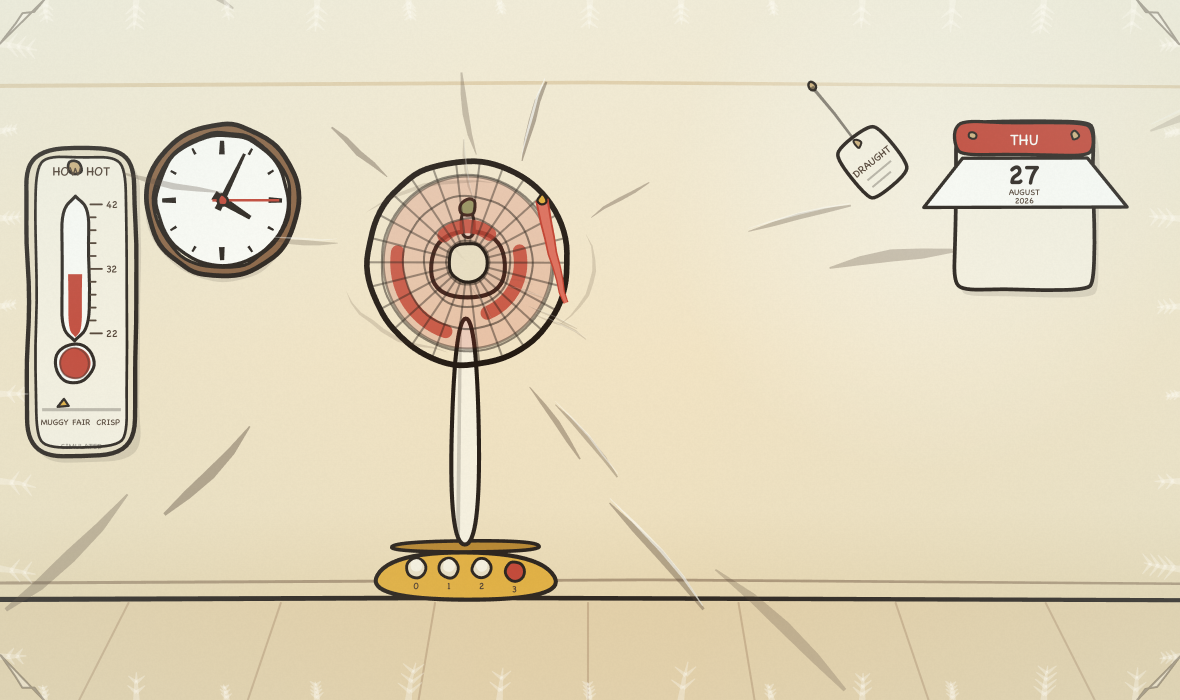
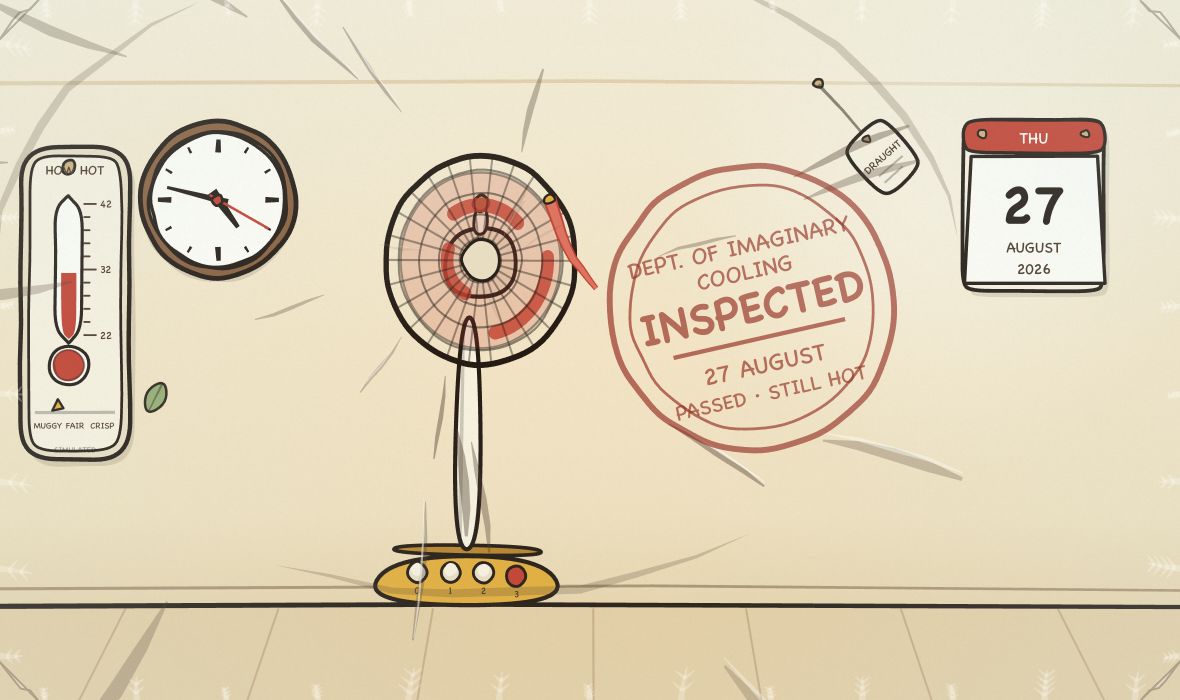
docs: describe the room, the file layout and how to run it
Rewrites the README around the five-file structure, the per-appliance
consequences, the information wall and both verification suites, and states
plainly that app.js is an ES module so the page must be served rather than
opened as a file:// URL. Fresh wide and portrait captures.

diff --git a/styles.css b/styles.css
@@ -292,7 +292,9 @@ kbd{display:inline-block; min-width:22px; text-align:center; background:var(--cr
 }
 @media (max-width:820px){
   .tabs{grid-template-columns:repeat(2,1fr)}
-  .marquee{padding-inline:var(--sp-5); min-height:118px}
+  .marquee{padding-inline:var(--sp-5); min-height:118px;
+           border-radius:30px 26px 32px 24px}
+  .studio{letter-spacing:.14em}
   .seal{position:static; translate:0; justify-self:center; width:74px; height:74px;
         margin-top:var(--sp-2); transform:rotate(-5deg)}
 }

diff --git a/README.md b/README.md
@@ -1,22 +1,29 @@
 # CyberFan
 
-**▶ [Open it](https://renrenmimi.github.io/cyberfann/)** — runs in your browser, nothing to install.
+**▶ [Open it](https://renrenmimi.github.io/CyberFan/)** — a static site, nothing to install.
 
 It has been extremely hot. This is a small department of imaginary cooling: four
 appliances drawn in the flat, inked, gouache-painted style of a 1940s cartoon, with
 working gears, and every sound built at runtime out of oscillators and filtered
-noise. There are no audio files and no images in this repository — the drawing is
+noise. There are no audio files and no images in the application — the drawing is
 code and so is the sound.
 
-![The room at 1440px: thermometer, clock, calendar and a fan running at speed three](docs/room-wide.png)
+![The room at 1440px: marquee, selector, thermometer, clock, calendar and a fan at speed three](docs/room-wide.png)
 
-*The wide scene. Clock and calendar read the visitor's own local time.*
+## Running it
+
+`app.js` is an ES module, so the page must be **served**, not opened as a `file://`
+URL. Any static server will do:
+
+```bash
+python3 -m http.server 8000
+```
 
 ## Controls
 
 | Action | |
 |---|---|
-| Pick an appliance | `1`–`4`, click a tab, or arrow through the strip |
+| Pick an appliance | `1`–`4`, click a card, or arrow through the strip |
 | Change speed | `↑` `↓`, or press a key on the plate |
 | On / off | `Space` |
 | Let the head swing | `P`, or pull the pin — fan only |
@@ -25,135 +32,136 @@ code and so is the sound.
 | Fan by hand | click or drag the stage — palm-leaf fan |
 | Volume | drag, scroll or arrow the knob |
 
-Nothing makes a sound until you click, because that is the browser's rule. Headphones
-help; a lot of this sits below 100 Hz.
+Nothing makes a sound until you press the button on the curtain, because that is
+the browser's rule. Headphones help; a lot of this sits below 100 Hz. Sound is
+never required to understand anything.
 
 ## The wind blows at you, not past you
 
-The first version had every appliance in profile, blowing to the right, and it read as
-watching someone else get cooled off. So the outlets were turned to face the lens and
-the air was rebuilt around one rule: **something approaching you at a constant speed
-covers more of your view every frame.** Each streak leaves the outlet radially,
-accelerates as its radius grows, and gets longer and fatter on the way — then leaves
-frame past your head.
+An early version had every appliance in profile, blowing to the right, and it read
+as watching someone else get cooled off. The outlets now face the lens and the air
+is built around one rule: **something approaching you at a constant speed covers
+more of your view every frame.** Each streak leaves the outlet radially,
+accelerates as its radius grows, and gets longer and fatter on the way.
 
-Three things corroborate it, because a single cue is easy to disbelieve:
+Three things corroborate it, because a single cue is easy to disbelieve: a
+tangential **swirl**, so the spray curves instead of reading as sunbeams; **broken
+blast arcs** rather than closed ellipses, which read as circles drawn on a wall;
+and **paper that reacts** — the calendar's bottom sheet lifts toward the camera and
+a draught tag leans away from whichever outlet is running.
 
-- **Swirl.** A rotor throws air outward *and around*, so each streak's angle drifts as
-  it travels and the spray curves. Without this the streaks read as sunbeams.
-- **Broken blast arcs.** Expanding rings drawn as two or three tapered segments with
-  gaps — a closed ellipse reads as a circle somebody drew on the wall.
-- **Paper that reacts.** The calendar's bottom sheet lifts *toward* the camera and
-  widens as it lifts, and a draught tag on the wall leans away from whichever outlet is
-  running. Two pieces of paper settle the question of which way the air is going.
+The camera is in the room, so gusts knock it about. The frost and the film grain
+are on the lens instead, and deliberately do not move with it.
 
-The camera is in the room, so gusts knock it about. The frost and the film grain are on
-the lens instead, and deliberately do not move with it.
+## One room, four different consequences
+
+| | what it leaves behind |
+|---|---|
+| Oscillating fan | the head aims somewhere, so the draught tag leans *with* it and the ribbon on the cage is whipped by direction as well as speed |
+| Window A/C | the compressor cuts in on its own timer, shoves the box sideways, fogs its own glass while it pulls, and drips into a puddle that evaporates |
+| Hair dryer | a narrow, hot, forceful jet — it pulls at the calendar page three times harder than the window unit does |
+| Palm-leaf fan | follows your hand across the stage, fires one synthesized whoosh per swing, and winds down on its own when you stop |
+
+Hold anything at its top setting for eight seconds and the department drops by. It
+happens at most once per page session, it is drawn on the canvas so it cannot cover
+a control, and the page is entirely understandable without ever seeing it.
 
 ## The information wall
 
 Three objects, one composition, no dashboard:
 
 - **A school-room enamel clock** whose hands are the visitor's own local time. The
-  seconds hand ticks. Hours and minutes are read straight from `Date` on the frame that
-  draws them, so the hands need no timer at all.
+  seconds hand ticks. Hours and minutes are read straight from `Date` on the frame
+  that draws them, so the hands need no timer at all.
 - **A tear-off calendar** showing today, formatted with `Intl.DateTimeFormat` in the
   visitor's locale. Only a day or minute rollover reformats anything; a 15-second
-  interval watches for one and is cleared on `pagehide` and whenever the tab is hidden.
-- **A thermometer with a comfort strip.** Both readings are invented by the page and the
-  plaque is stamped **SIMULATED**. The temperature is a function of how long something
-  has been running; the humidity only moves for the air conditioner, because a fan does
-  not take water out of the air. The temperature also appears as `you feel` on the
-  plate, and the humidity as its own chip.
-
-## What is in it
-
-- **One synth, four patches.** Three noise paths — broadband air, a resonant peak, a low
-  rumble — plus five harmonic partials and a sawtooth for motor whine. What makes a hair
-  dryer sound different from a window unit is a table of numbers, not different code.
-- **Blade-pass frequency is computed, not chosen.** `rpm ÷ 60 × blades` sets the
-  partials, so pitch follows the gear because the geometry says it must. Four blades at
-  620 rpm land on 41 Hz; eleven at 9,000 land on 1,650.
-- **Spin-up and coast-down are asymmetric.** A motor is driven up and then left to coast,
-  so every appliance carries two time constants: 0.50 s and 0.80 s for the dryer, 2.0 and
-  3.6 for the air conditioner. The plate names the phase it is in — *starting*,
-  *running*, *speeding up*, *easing off*, *stopping* — derived from the level rather than
-  stored, so it cannot disagree with the picture.
-- **The ink line boils.** Golden-age cartoons were shot on twos — twelve new drawings a
-  second. Motion runs at 60, but every outline is re-wobbled only twelve times a second,
-  so the line crawls the way a hand-inked one does. The film grain re-seeds on the same
-  clock.
-- **Squash and stretch.** Bodies shake and pulse with the speed, and the two scale
-  factors multiply to one, so a thing keeps its volume the way a drawn character does.
-- **Transients are synthesized too.** A key's clack is a filtered noise burst plus a
-  decaying tick. The palm fan has no motor to hold a tone, so each swing fires its own
-  burst through a band-pass that sweeps up and back down — a whoosh is a filter moving,
-  not a sample.
-- **The compressor runs its own clock.** It cuts in and out on a timer, shoves the box
-  sideways when it starts, takes the bottom of the spectrum with it when it stops, and
-  drips into a puddle that slowly evaporates.
-- **A ribbon tied to the cage**, eight verlet points with a length constraint, simulated
-  on the fixed step rather than in the paint pass. It is the cheapest thing on the page
-  that makes wind look real, because it lags.
+  interval watches for one and is cleared on `pagehide` and whenever the tab is
+  hidden.
+- **A thermometer with a comfort strip.** Both readings are invented by the page and
+  the plaque is stamped **SIMULATED**. The temperature is a function of how long
+  something has been running; the humidity only moves for the air conditioner,
+  because a fan does not take water out of the air.
 
 ## The narrow scene is a different drawing
 
-![The same room at 390px, in portrait, with the window unit running](docs/room-portrait.png)
+![The same room at 390px, in portrait, with the hair dryer on hot](docs/room-portrait.png)
 
-Below 680 px of stage width the canvas becomes 760 × 980 and `relayout()` re-places every
-object: the wall furniture spreads across the top, the appliance moves to the middle, the
-floor drops. It is a portrait framing of the same room, not the landscape composition
-scaled down — that used to collapse into a 328 × 199 letterbox.
+Below 680 px of stage width the canvas becomes 760 × 980 and `relayout()` re-places
+every object: the wall furniture spreads across the top, the appliance moves to the
+middle, the floor drops. It is a portrait framing of the same room, not the
+landscape composition scaled down.
 
-## Tech
+## How it is put together
 
-Canvas 2D and the Web Audio API. No runtime dependencies, no build step, one HTML file.
+```
+index.html      markup only
+styles.css      one token block, and every rule measured against it
+devices.mjs     the appliance table plus the pure maths that reads it
+room-time.mjs   Intl formatting and the day/minute rollover watcher
+app.js          audio, canvas, drawing, interface, self-test
+verify.mjs      static checks, run with node
+```
 
-The simulation runs on a fixed 120 Hz step and the renderer takes whatever frame rate it
-gets — integrating the raw frame delta instead would make a fan spin up slower on a slow
-machine, which is the one thing a spin-up time must not do. Audio parameters are re-aimed
-every frame with `setTargetAtTime`, which behaves as a one-pole follower: the same
-smoothing a motor changing speed already has. The graph is built once, on the first real
-gesture, and never rebuilt — which is what lets one appliance coast down while the next
-spins up instead of clicking. `resume()` is retried on every later gesture, so there is no
-silent-and-no-error state, and `M` mutes the master.
+No framework, no build step, no package manager, no dependency.
 
-Layout is one block of tokens — spacing, control size, border, radius, shadow, type,
-timing — and every rule measures itself against them. The plate is a named grid with
-fixed slots: a control that does not apply to the current appliance is **disabled where it
-stands** rather than removed, so switching appliances never moves anything. Chrome is DOM,
-not canvas, so the keys, pin, switch, knob and mute are real buttons with real focus rings
-and keyboard handling; tab artwork is grouped inline SVG.
+**One synth, four patches.** Three noise paths — broadband air, a resonant peak, a
+low rumble — plus five harmonic partials and a sawtooth for motor whine. What makes
+a hair dryer sound different from a window unit is a table of numbers, not
+different code. Blade-pass frequency is computed rather than chosen: `rpm ÷ 60 ×
+blades` sets the partials, so pitch follows the gear because the geometry says it
+must.
 
-`prefers-reduced-motion` reaches the drawing as well as the stylesheet: the ink stops
-boiling, the camera stops being knocked about, bodies stop shaking, the seconds hand is
-withdrawn and the particle budget is cut. Every state is carried by shape or text as well
-as colour — the depressed key prints a dot, the selected tab draws a rule, the disabled
-control is hatched.
+**The simulation runs on a fixed 120 Hz step** and the renderer takes whatever frame
+rate it gets — integrating the raw frame delta would make a fan spin up slower on a
+slow machine, which is the one thing a spin-up time must not do. Audio parameters
+are re-aimed every frame with `setTargetAtTime`, which behaves as a one-pole
+follower: the same smoothing a motor changing speed already has. The graph is built
+once, on the first real gesture, and never rebuilt, which is what lets one appliance
+coast down while the next spins up instead of clicking.
+
+**The ink line boils.** Golden-age cartoons were shot on twos — twelve new drawings
+a second. Motion runs at 60, but every outline is re-wobbled only twelve times a
+second, and the film grain re-seeds on the same clock.
+
+**The plate is a named grid with fixed slots.** A control that does not apply to the
+current appliance is disabled where it stands rather than removed, so switching
+appliances never moves anything.
+
+## Accessibility
+
+- Roving tab index on the selector; `←` `→` `Home` `End` move between appliances.
+- Every button has an accessible name; the volume knob is a `slider` with
+  `aria-valuetext`; the canvas has a description of what it shows.
+- One polite live region reports the appliance, its speed, the pin, the air mode,
+  the mute and a short status line — only when something actually changed.
+- Hidden text reports what the wall clock reads, refreshed on the minute.
+- State is never colour alone: the depressed key prints a dot, the selected card
+  draws a rule, disabled controls are hatched and say `n/a`.
+- `prefers-reduced-motion` reaches the drawing as well as the stylesheet — the ink
+  stops boiling, the camera stops being knocked about, bodies stop shaking, the
+  seconds hand is withdrawn, the marquee sunburst stops, the curtain stops animating
+  and the particle budget is cut. Nothing informative is lost.
 
 ## Verification
 
-Two suites, both runnable without a browser harness.
+`node verify.mjs` — **113 checks**. It imports the appliance table rather than
+scraping it, so the checks and the running app read the same source: gear levels
+ascend to full throttle, every frequency sweep starts above zero, rpm leaves zero
+continuously and rises monotonically, blade-pass partials stay inside the audible
+band, the summed gain of all voices leaves the limiter headroom, coast-down outlasts
+spin-up everywhere, and each gear reaches 95 % of its target in the 3τ its time
+constant promises.
 
-`node verify.mjs` reads the appliance table and the level integration straight out of
-`index.html` — not a copy — and runs **113 checks**: every appliance has an icon and a
-render branch, gear levels ascend to full throttle, every frequency sweep starts above
-zero, rpm leaves zero continuously and rises monotonically, blade-pass partials stay
-inside the audible band, the summed gain of all voices leaves the limiter headroom, a
-two-position switch has a second cooling figure to switch to, coast-down outlasts spin-up
-everywhere, and each gear reaches 95 % of its target in the 3τ its time constant promises.
-
-`index.html?selftest=1` runs **22 assertions** against the live DOM and prints a report.
-Nothing is exposed on `window` and nothing runs without the flag. It covers what a
-screenshot cannot: no page overflow, no clipped control label, no sub-44 px button, one
-layout box for all four tabs, identical plate geometry across appliances, every key
-agreeing with both the model and the readout, inapplicable controls disabled rather than
-removed, keyboard operation, accessible names, a roving tab index, the calendar matching
-today, the clock text refreshing on a minute rollover, a day rollover, interval cleanup,
-the reduced-motion particle cap and camera stilling, and every appliance spinning up,
+`index.html?selftest=1` — **32 assertions** against the live DOM, printed as a
+report. Nothing is exposed on `window` and nothing runs without the flag. Layout
+and overflow, plate stability across appliances, control↔state agreement, keyboard
+operation, accessible names, the calendar matching today, a minute refresh, a day
+rollover, interval cleanup, the curtain and its session memory, the status copy, the
+inspection stamp's one-time behaviour, per-appliance paper pull, condensation
+confined to the window unit, mute, reduced motion, and every appliance spinning up,
 running and coasting to a stop.
 
-Measured green at **320, 360, 390, 720** (which is 1440 at 200 % browser zoom), **768,
+Green at **320, 360, 390, 720** (which is 1440 at 200 % browser zoom), **768, 900,
 1024 and 1440** px.
 
 ---
